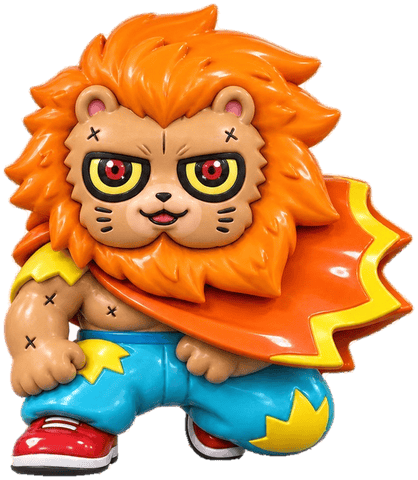
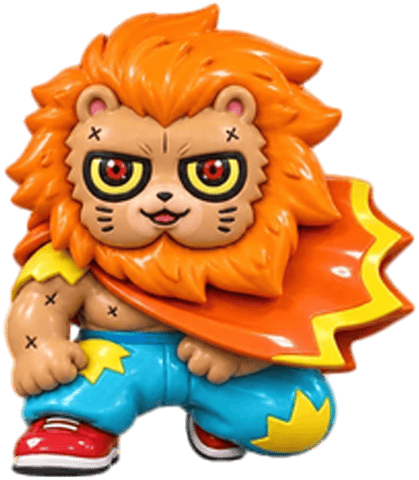
fq-mon7-v1: 7体の絵をHIROさんの切り抜きに差し替え

diff --git a/service-worker.js b/service-worker.js
@@ -12,7 +12,7 @@
        つながらない時だけキャッシュを出す（＝オフラインでも開ける）。
      - アイコン・manifest だけ「キャッシュ優先」（変わらないので速さ優先）。
    ------------------------------------------------------------------ */
-const CACHE = 'fq326-v19';  // fq-gbright-v1: gacha_m.png / gacha_w.png を明るくしたので版を上げる
+const CACHE = 'fq326-v20';  // fq-mon7-v1: mon_1〜mon_7 を切り抜き直したので版を上げる
 // ★名前を変えずに絵の中身だけ差し替えたときは、必ずここを上げること。
 //   上げないと、端末に残った古い絵（白い丸の「日」）が出続ける。
 //   ★名前が新しい絵（time.png / time_note.png）は、上げなくても出る。

diff --git a/README.md b/README.md
@@ -7323,3 +7323,63 @@ MENU 側を消しても、下のタブバー側がそのまま効いている。
 - 本番の日時を決めた → 管理画面の1行をコピーして2か所に貼る → 公開し直す
 - 試したのが戻らない → 「試すのをやめる」を押す
 - リハーサルの長さを変えたい → 「何分ひらく」に入れて「この時間ひらく」
+
+---
+
+## `fq-mon7-v1` — 7体の絵をHIROさんの切り抜きに差し替え（2026-09-29）
+
+### やったこと
+
+`mon_1` 〜 `mon_7` の png と webp を、HIROさんが Photoshop で切り抜いたものに置き換えた。
+
+こちらでやったのは2つだけ。
+
+**1. フチの色を直した**
+
+切り抜きの半透明のフチに、白っぽい背景の色が残っていた（フチの色の平均 `rgb(222,212,198)`）。
+そのままだと暗い背景で白い輪郭が浮く。
+**形（不透明度）はHIROさんのまま**で、半透明の画素の色だけを
+「いちばん近い中の色」で塗り直した。
+
+**2. 大きさと重さをそろえた**
+
+1体750pxほどのものを長辺480pxに縮小。png は色数を落とし、webp も作った。
+
+```
+webp 27〜45KB ／ png 41〜77KB
+```
+
+### ★★CACHE を上げた（v19 → v20）
+
+**名前はそのままで中身だけ差し替えた**ので、上げないと端末に残った古い絵が出続ける。
+
+| | CACHE |
+|---|---|
+| 新しい名前の絵を足した | 上げなくてよい（前回の fq-monster-v1） |
+| **名前はそのまま・中身だけ差し替え** | **上げる** ← 今回 |
+
+### ★★ここで時間を使ったので、書いておく
+
+**1. 確認用の画像を、切り抜きの材料にしてはいけない**
+
+最初に送った `monsters_7.png` は 1750×324px。**中身を見てもらうためのもの**で、
+1体290pxしかない。そこから切り抜くと、どう頑張っても粗くなる。
+
+★切り抜きの材料が要るときは、**元画像**（1054×1492・1体700px）を渡すこと。
+`~/dev/mon_src` に置いてある。
+
+**2. チャットに画像を貼ると縮む**
+
+3回とも横960pxに、最後は1366pxに縮められて届いた。透明が落ちることもあった。
+★**大きい画像・透明のある画像は、フォルダ渡しにすること。**
+
+**3. 自分の切り抜きが「まだ粗い」と言われたら、まず相手が何を見ているかを確かめる**
+
+今回、直したあとの絵ではなく**直す前の画像**を切り抜いてもらっていた。
+先にそれを確かめていれば、何往復か減らせた。
+
+### 次に同じことがあったときの調べ方
+
+- 絵を差し替えたのに古いまま → **CACHE を上げ忘れている**
+- 暗いところで白い輪郭が浮く → 半透明のフチに背景の色が残っている。
+  形はそのままで、色だけ「いちばん近い中の色」で塗り直す
